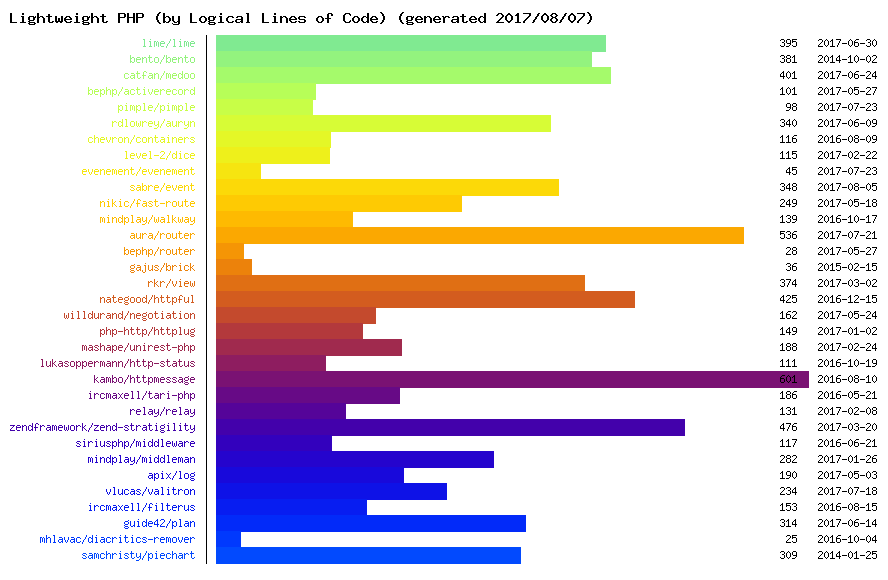
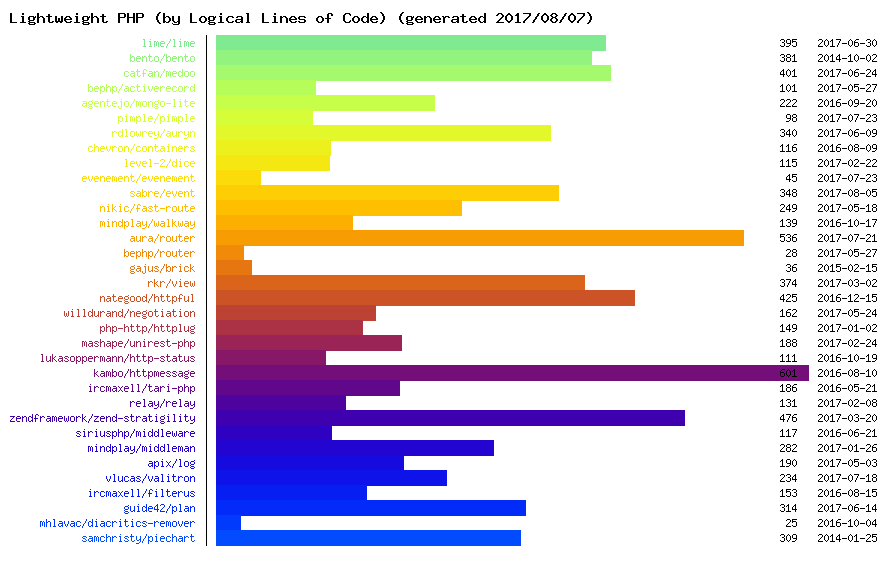
Add MongoLite

diff --git a/README.md b/README.md
@@ -25,6 +25,7 @@ List of lightweight PHP libraries.
 
 * [Medoo](https://github.com/catfan/Medoo) - The Lightest PHP database framework to accelerate development
 * [bephp/activerecord](https://github.com/bephp/activerecord) - Micro activerecord library in PHP
+* [MongoLite](https://github.com/agentejo/mongo-lite) - Schemaless database on top of SqLite
 
 ## Dependency Injection
 
